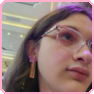
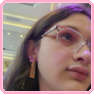
added bottem bar thing

diff --git a/style.css b/style.css
@@ -7,6 +7,7 @@ body {
     background-position: center;
     -ms-interpolation-mode: nearest-neighbor;
     image-rendering: -moz-crisp-edges;
+    margin: 0;
 }
 
 p {
@@ -14,6 +15,12 @@ p {
     font-size: 20px;
     margin: auto;
     color:black;
+}
+ul {
+  display: table;
+  margin: 0 auto;
+  
+  font-size: 20px;
 }
 @font-face {
   font-family: Caveat;
@@ -71,10 +78,34 @@ p {
 }
 
 .picture {
-    width: 30%;
+    
+    width: 20%;
     margin-right: auto;
     margin-left: auto;
     display: block;
 
 }
+.navbar {
+  background-color: black;
+  overflow: hidden;
+  position: fixed;
+  bottom: 0;
+  width: 100%;
+}
+.navbar a {
+  float: left;
+  display: block;
+  color: #a2d2ff;
+  text-align: center;
+  padding: 14px 16px;
+  text-decoration: none;
+  font-size: 17px;
+}
+.navbar a:hover {
+  background-color: #ffc8dd;
+  color: black;
+}
 
+.navbarimage {
+    width: 3%;
+}

diff --git a/index.html b/index.html
@@ -5,14 +5,29 @@
         <title>Vivi Website</title>
     </head>
     <body>
+        <img class = "navbarimage" src = "images/duckdance_cropped1.gif">
+        <img class = "navbarimage" src = "images/five_pebbles.gif">
 
         <div class = title>ViviTheQueen</div>
         <div>
             <img class = "picture" src = "images/picture.png">
+            
         </div>
         <div>
             <p>hello! my name is violet, and I make games and other projects!</p>
+            <ul>
+                <li>About me</li>
+                <ul>
+                    <li>I know godot, c++, java, a bit of c, css, html, python</li>
+                </ul>
+            </ul>
         </div>
+     <div class="navbar">
+      <a href="#home" class="active">Home</a>
+      <a href="#news">News</a>
+      <a href="#contact">Contact</a>
+
+    </div> 
     </body>
 
 </html>
